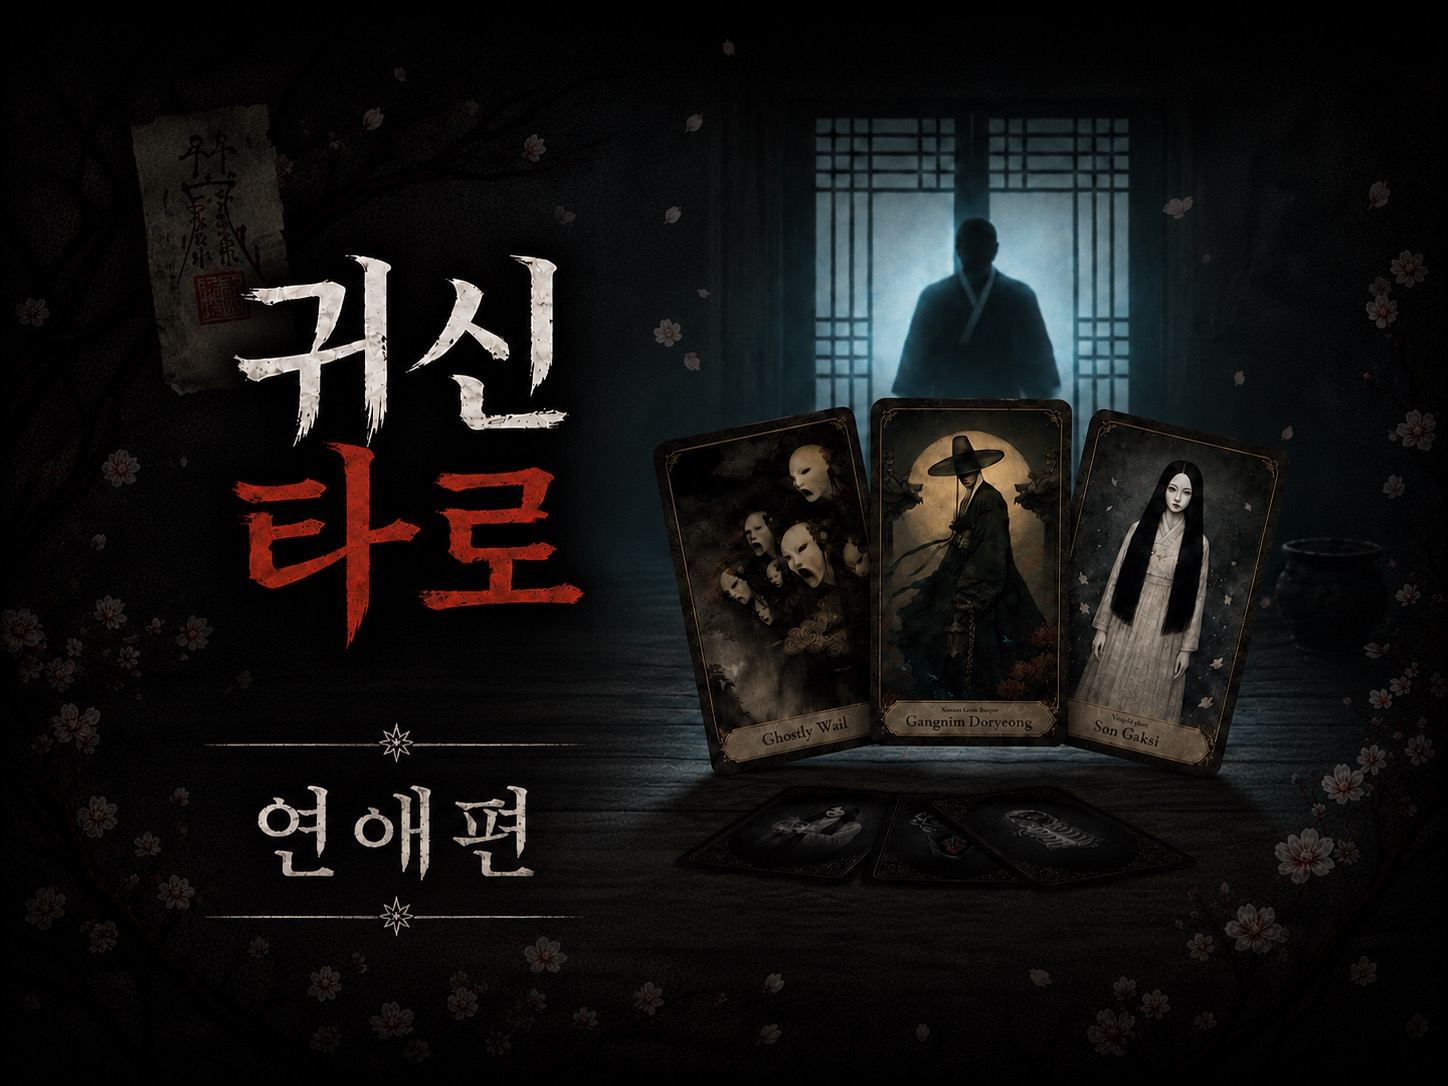
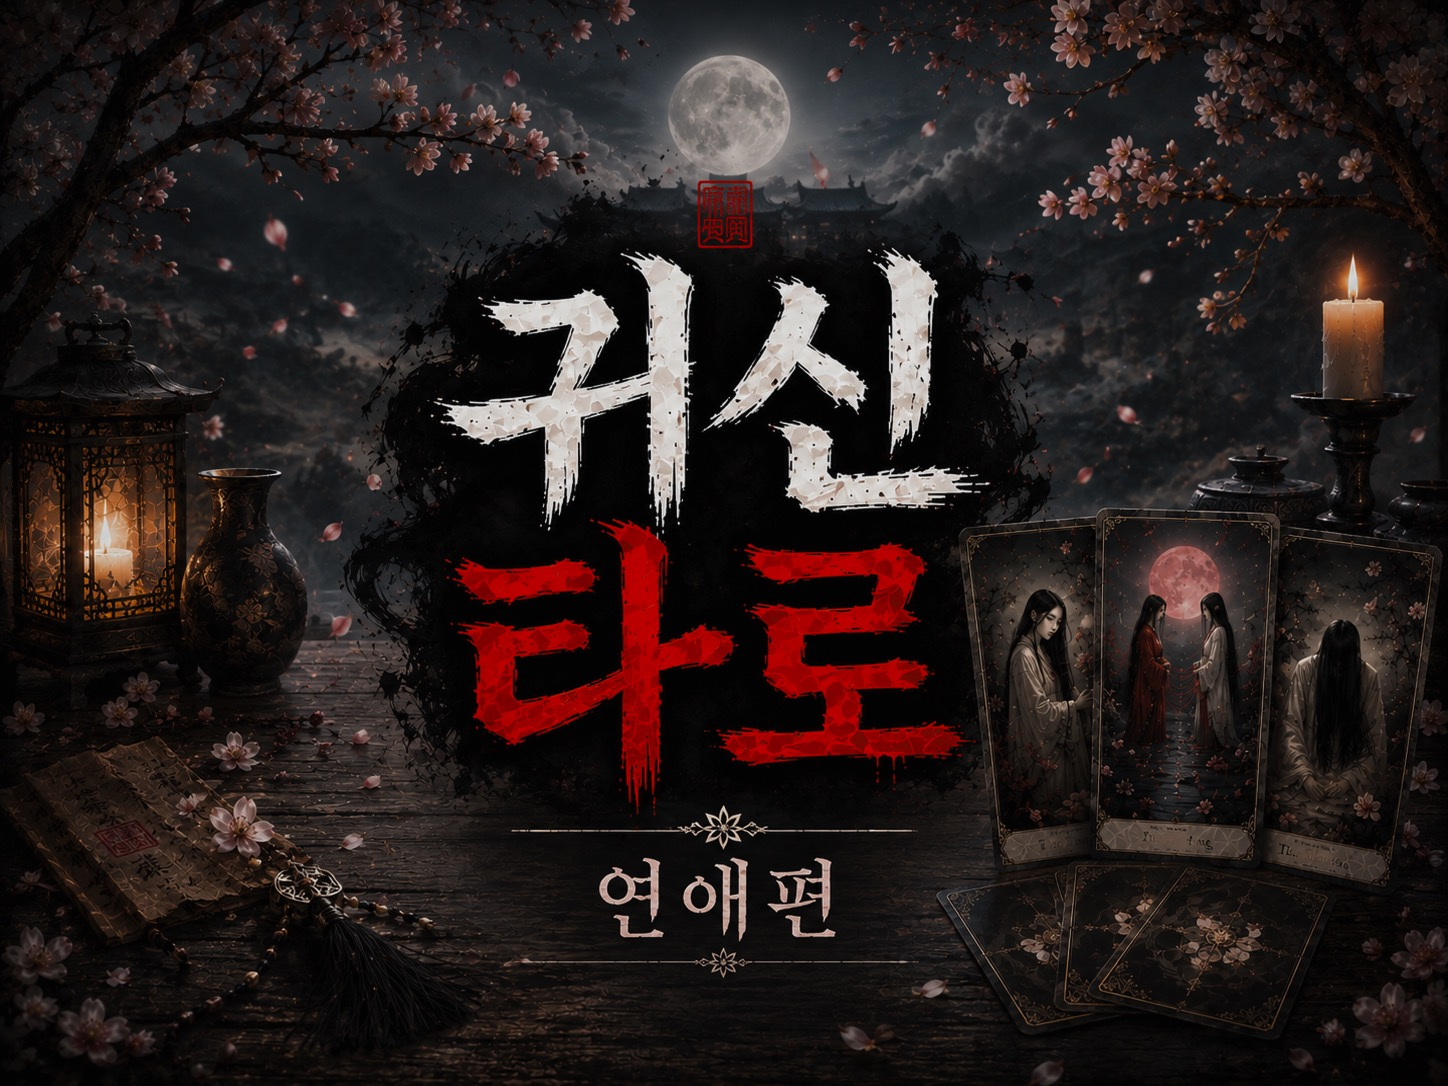
fix: 귀신타로 연애편 썸네일/공유이미지 교체 + 이미지 저장 갤러리 저장 개선 + 추천테스트·배너 모바일 스와이프 버그 수정
- 귀신타로 연애편 hero/썸네일/OG 공유 이미지 교체
- saveImage()가 canShare 미지원 브라우저에서 다운로드로 폴백되던 문제 수정 (귀신타로와 동일 조건으로 통일)
- RecommendSection: 터치 드래그가 네이티브 스크롤과 충돌해 버벅이던 문제 수정 (터치는 네이티브 스크롤에 위임)
- SajuGPTBanner: 드래그 중 CSS 트랜지션이 계속 걸려있어 스와이프가 밀리다 멈추던 문제 수정 + next/image로 전환해 로딩 지연으로 배너가 안 보이던 문제 개선
- 귀신타로 운세/연애편 결과 배지에서 "이번 달 · " 카피 제거

diff --git a/src/components/SajuGPTBanner.tsx b/src/components/SajuGPTBanner.tsx
@@ -2,6 +2,7 @@
 
 import { useCallback, useEffect, useRef, useState, type PointerEvent as ReactPointerEvent, type MouseEvent as ReactMouseEvent } from 'react';
 import Link from 'next/link';
+import Image from 'next/image';
 import { trackEvent, trackSajuGPTClick, type FeatureType } from '@/lib/analytics';
 
 interface Props {
@@ -29,6 +30,7 @@ const WEB_URL = 'https://www.sajugpt.co.kr/';
 export default function SajuGPTBanner({ featureType, resultId }: Props) {
   const [trackIndex, setTrackIndex] = useState(1);
   const [transitionEnabled, setTransitionEnabled] = useState(true);
+  const [isDragging, setIsDragging] = useState(false);
   const [dragOffsetPx, setDragOffsetPx] = useState(0);
   const draggingRef = useRef(false);
   const dragRef = useRef({ pointerId: null as number | null, startX: 0, moved: false });
@@ -66,6 +68,7 @@ export default function SajuGPTBanner({ featureType, resultId }: Props) {
     if (e.pointerType === 'mouse' && e.button !== 0) return;
     dragRef.current = { pointerId: e.pointerId, startX: e.clientX, moved: false };
     draggingRef.current = true;
+    setIsDragging(true);
   };
 
   const handlePointerMove = (e: ReactPointerEvent<HTMLAnchorElement>) => {
@@ -78,6 +81,7 @@ export default function SajuGPTBanner({ featureType, resultId }: Props) {
   const endDrag = (e: ReactPointerEvent<HTMLAnchorElement>) => {
     if (!draggingRef.current) return;
     draggingRef.current = false;
+    setIsDragging(false);
     if (dragRef.current.pointerId !== null && containerRef.current?.hasPointerCapture?.(dragRef.current.pointerId)) {
       containerRef.current.releasePointerCapture(dragRef.current.pointerId);
     }
@@ -110,7 +114,7 @@ export default function SajuGPTBanner({ featureType, resultId }: Props) {
       onPointerCancel={endDrag}
       onDragStart={(e) => e.preventDefault()}
       className="relative block w-full transform-gpu"
-      style={{ aspectRatio: '1800 / 450', borderRadius: '20px', overflow: 'hidden', boxShadow: '0 1px 4px rgba(0,0,0,0.08)', touchAction: 'pan-y', userSelect: 'none' }}
+      style={{ aspectRatio: '1800 / 450', borderRadius: '20px', overflow: 'hidden', backgroundColor: '#FFFFFF', boxShadow: '0 1px 4px rgba(0,0,0,0.08)', touchAction: 'pan-y', userSelect: 'none' }}
     >
       <div
         onTransitionEnd={handleTrackTransitionEnd}
@@ -118,17 +122,18 @@ export default function SajuGPTBanner({ featureType, resultId }: Props) {
         style={{
           width: `${EXTENDED_IMAGES.length * 100}%`,
           transform: `translateX(calc(${-trackIndex * (100 / EXTENDED_IMAGES.length)}% + ${dragOffsetPx}px))`,
-          transition: transitionEnabled ? 'transform 0.45s ease-in-out' : 'none',
+          transition: isDragging || !transitionEnabled ? 'none' : 'transform 0.45s ease-in-out',
         }}
       >
         {EXTENDED_IMAGES.map((src, i) => (
-          <div key={`${src}-${i}`} className="h-full shrink-0" style={{ width: `${100 / EXTENDED_IMAGES.length}%` }}>
-            <img
+          <div key={`${src}-${i}`} className="relative h-full shrink-0" style={{ width: `${100 / EXTENDED_IMAGES.length}%` }}>
+            <Image
               src={src}
               alt="사주GPT로 더 알아보기"
               draggable={false}
-              onError={(e) => { e.currentTarget.style.display = 'none'; }}
-              className="w-full h-full"
+              fill
+              priority={i <= 2}
+              sizes="600px"
               style={{ objectFit: 'cover' }}
             />
           </div>

diff --git a/src/components/RecommendSection.tsx b/src/components/RecommendSection.tsx
@@ -36,7 +36,9 @@ export default function RecommendSection({ excludeId, titleText = '추천 테스
 
   const handlePointerDown = (e: ReactPointerEvent<HTMLDivElement>) => {
     const scroller = scrollerRef.current;
-    if (!scroller || (e.pointerType === 'mouse' && e.button !== 0)) return;
+    // 터치는 브라우저 네이티브 스크롤에 맡긴다 — JS로 scrollLeft를 같이 건드리면 네이티브 관성 스크롤과
+    // 충돌해서 뚝뚝 끊기므로, 마우스 드래그(데스크탑)에서만 커스텀 드래그를 사용
+    if (!scroller || e.pointerType !== 'mouse' || e.button !== 0) return;
     dragRef.current = { active: true, pointerId: e.pointerId, startX: e.clientX, startScrollLeft: scroller.scrollLeft, moved: false };
     setIsDragging(true);
   };
@@ -83,7 +85,7 @@ export default function RecommendSection({ excludeId, titleText = '추천 테스
           paddingLeft: '2px',
           paddingRight: '2px',
           cursor: isDragging ? 'grabbing' : 'grab',
-          touchAction: 'pan-y',
+          touchAction: 'pan-x',
           userSelect: 'none',
           scrollbarWidth: 'none',
           scrollSnapType: isDragging ? 'none' : 'x mandatory',

diff --git a/src/lib/tarot/configs/ghost-shared.ts b/src/lib/tarot/configs/ghost-shared.ts
@@ -39,7 +39,7 @@ export const GHOST_SHARED_COPY = {
   ctaAppUrlIOS: 'https://apps.apple.com/kr/app/fortune-gpt/id1547399137',
   ctaAppUrlAndroid: 'https://play.google.com/store/apps/details?id=kr.semaphore.sajugpt',
   kakaoButtonText: '나도 카드 열어보기',
-  badgeLabel: (title: string) => `이번 달 · ${cleanMonthTitle(title)}`,
+  badgeLabel: (title: string) => cleanMonthTitle(title),
   shareBox: {
     headline: '귀신이 아직\n당신을 보고 있습니다.',
     headlineHighlight: '보고',
